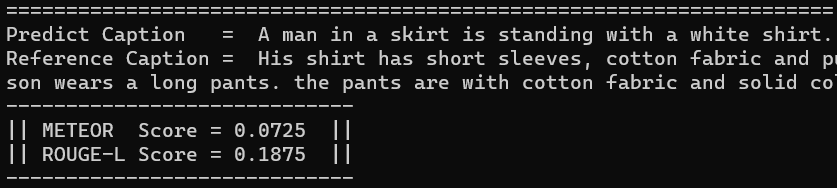
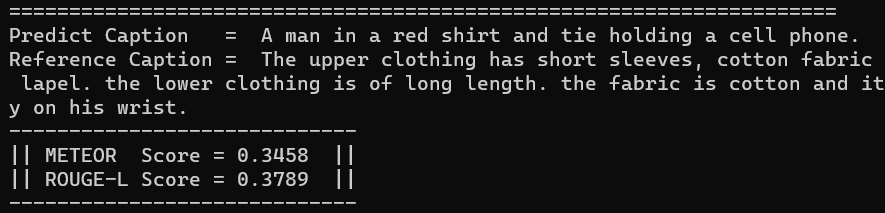
doc: update img

Changed region(s): [[0.0, 0.1064, 1.0, 0.8777], [0.0, 0.0266, 0.994, 0.0798], [0.0, 0.9309, 0.4349, 0.9574]]

diff --git a/doc/NNDL课设_结题报告(MarkdownVersion).md b/doc/NNDL课设_结题报告(MarkdownVersion).md
@@ -1014,7 +1014,7 @@ def calc_rouge_l(reference, hypothesis):
 
 > 待补充
 
-#### 5.1.2 Transformer Encoder and Decoder 输出展示（这个数值要调）
+#### 5.1.2 Transformer Encoder and Decoder 输出展示
 
 ![image](../doc/img/Transformer_demo1.png)
 
